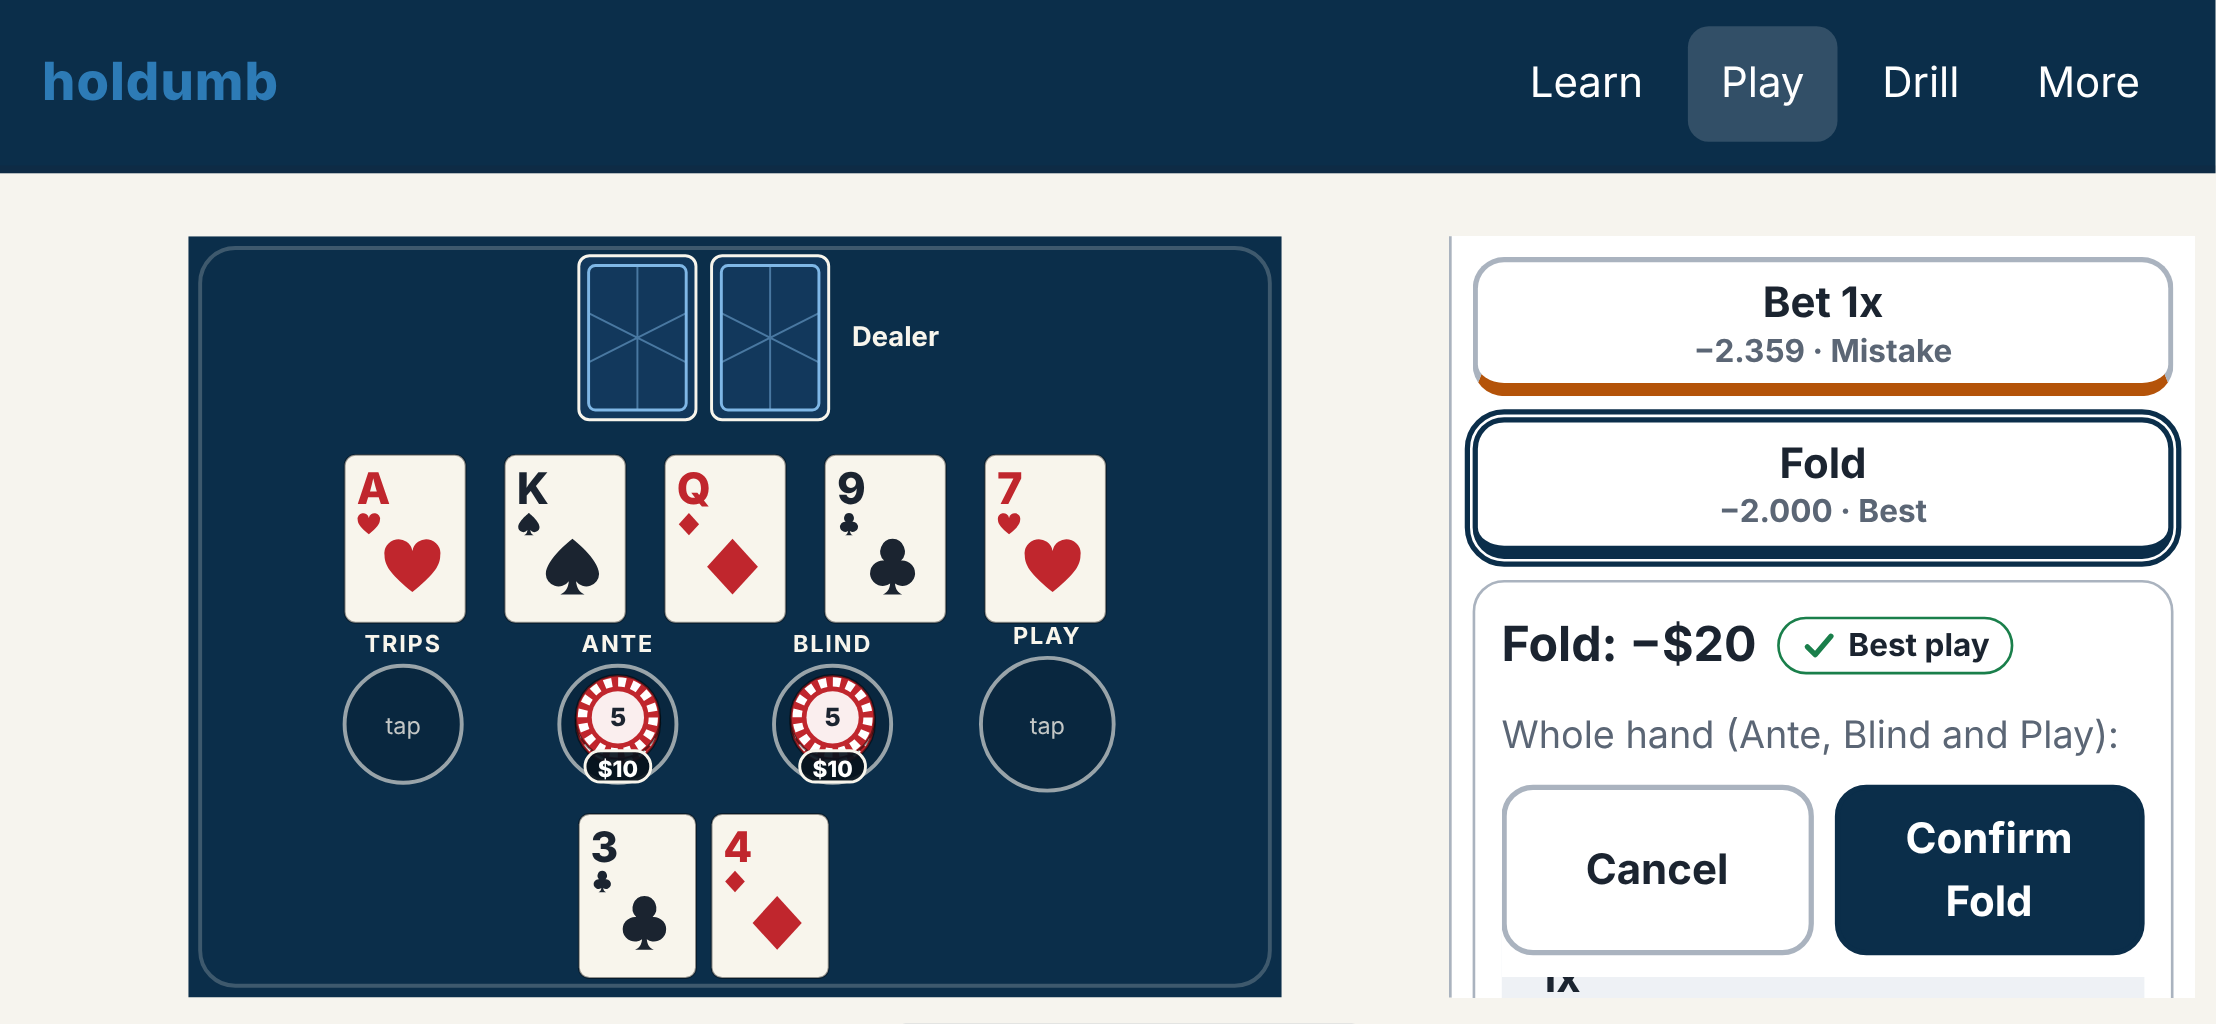
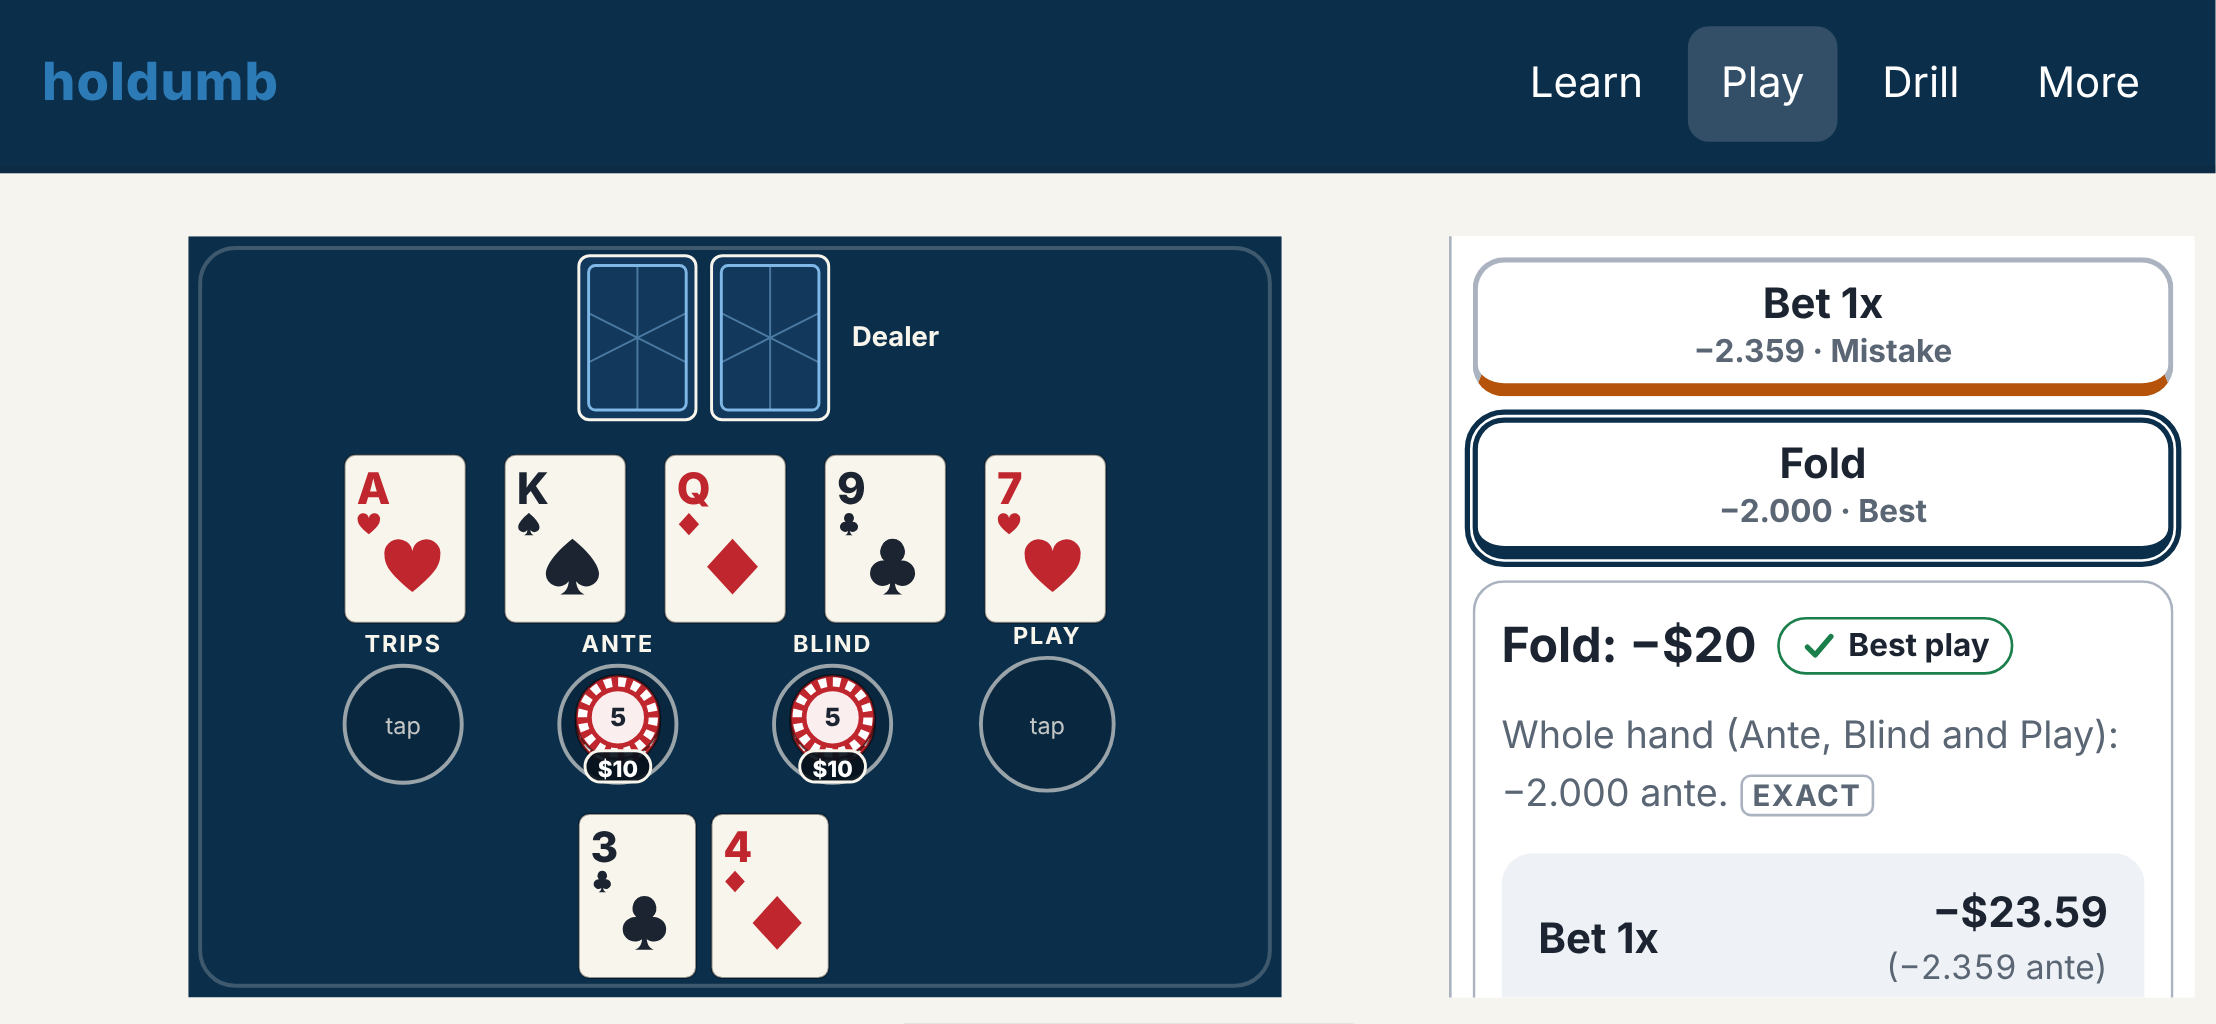
wire betterAlternative and hideEv into the Simulator; refreshed screenshots
Claude-Session: https://claude.ai/code/session_01PWKQj6nyHK13ovx4AWfotY

diff --git a/src/sim/ui/Simulator.tsx b/src/sim/ui/Simulator.tsx
@@ -24,7 +24,8 @@ import { decodeSnapshot, encodeSnapshot } from './persist';
 import { randomSeed, resolvePractice, resolveSpeed } from './settings';
 import { actionOfKey, describeResult, handName, headline, optionKeyOf } from './text';
 import type { SimulatorProps } from './types';
-import type { DecisionPreview } from '../math';
+import { betterAlternative } from '../math';
+import type { BetterAlternative, DecisionPreview, PreviewRequest } from '../math';
 import type { StrategyId } from '../strategy';
 
 const isDecisionStreet = (s: string): boolean => s === 'preflop' || s === 'flop' || s === 'river';
@@ -121,9 +122,11 @@ export function Simulator(props: SimulatorProps) {
   const pv = view.preview;
 
   const [open, setOpen] = useState<OptionKey | null>(null);
-  const [reveal, setReveal] = useState<{ preview: DecisionPreview; chosen: OptionKey } | null>(
-    null,
-  );
+  const [reveal, setReveal] = useState<{
+    preview: DecisionPreview;
+    chosen: OptionKey;
+    req: PreviewRequest | null;
+  } | null>(null);
   const [chip, setChip] = useState<Cents>(scene.ui?.defaultChip ?? 500);
   const handKey = `${hand?.n ?? 0}:${street}`;
   const lastKey = useRef(handKey);
@@ -168,10 +171,23 @@ export function Simulator(props: SimulatorProps) {
     if (!r.ok && !d.view.step) pushToast(r.message, 'bad');
     return r;
   };
+  const requestNow = (): PreviewRequest | null => {
+    const st = d.view.state;
+    const h = st.hand;
+    if (!h || !isDecisionStreet(st.street)) return null;
+    return {
+      street: st.street as PreviewRequest['street'],
+      hole: h.deal.player,
+      board: h.deal.board.slice(0, h.boardShown),
+      blindPaytable: st.rules.blindPaytable,
+      ante: st.bets.ante,
+    };
+  };
   const confirm = async (k: OptionKey) => {
     const before = d.view.preview.value;
+    const reqBefore = requestNow();
     const r = await d.act(actionOfKey(k));
-    if (practice && before) setReveal({ preview: before, chosen: k });
+    if (practice && before) setReveal({ preview: before, chosen: k, req: reqBefore });
     else setOpen(null);
     if (!r.ok && !d.view.step) pushToast(r.message, 'bad');
   };
@@ -221,9 +237,9 @@ export function Simulator(props: SimulatorProps) {
     />
   ) : null;
 
-  const showPreviewOnBar = evShown && !practice && pv.status === 'ready' ? pv.value : null;
+  const showPreviewOnBar = evShown && pv.status === 'ready' ? pv.value : null;
   const barStatus =
-    !decision || !evShown || practice
+    !decision || !evShown
       ? undefined
       : pv.status === 'idle'
         ? undefined
@@ -232,6 +248,17 @@ export function Simulator(props: SimulatorProps) {
           : pv.status;
 
   const sheetKey = reveal?.chosen ?? open;
+  const sheetPreview = reveal ? reveal.preview : pv.value;
+  const sheetReq = reveal ? reveal.req : requestNow();
+  let alternative: BetterAlternative | null = null;
+  if (sheetKey && sheetPreview && sheetReq && sheetPreview.street === sheetReq.street) {
+    const i = sheetPreview.options.findIndex((o) => optionKeyOf(o.action) === sheetKey);
+    try {
+      if (i >= 0) alternative = betterAlternative(sheetReq, sheetPreview, i);
+    } catch {
+      alternative = null;
+    }
+  }
   const sheet =
     sheetKey && (reveal || (open && decision)) ? (
       <EvSheet
@@ -251,6 +278,7 @@ export function Simulator(props: SimulatorProps) {
         }}
         confirmCostlyMoves={settings.confirmCostlyMoves}
         hideEv={practice}
+        alternative={alternative}
         chosen={reveal?.chosen ?? null}
         onContinue={() => {
           setReveal(null);
@@ -326,6 +354,7 @@ export function Simulator(props: SimulatorProps) {
             street={street}
             layout={orientation === 'landscape' ? 'rail' : 'bar'}
             preview={showPreviewOnBar}
+            hideEv={practice}
             evStatus={barStatus}
             selected={open}
             allowed={view.allowedOptions}

diff --git a/src/sim/ui/Simulator.test.tsx b/src/sim/ui/Simulator.test.tsx
@@ -54,6 +54,28 @@ describe('Simulator container', () => {
     expect(document.querySelectorAll('.is-best').length).toBe(1);
     evClient.dispose();
   });
+  it('a worse option shows the better alternative in the sheet', async () => {
+    const { evClient } = mount({
+      id: 'sandbox',
+      version: 1,
+      startAt: {
+        street: 'river',
+        deal: {
+          player: ['3c', '4d'],
+          flop: ['Ah', 'Ks', 'Qd'],
+          turn: '9c',
+          river: '7h',
+          dealer: ['Td', 'Ts'],
+        },
+      },
+    });
+    await waitFor(() =>
+      expect(screen.getByTestId('simulator').getAttribute('data-ev')).toBe('ready'),
+    );
+    fireEvent.click(document.querySelector('[data-option="play-1"]')!);
+    await waitFor(() => expect(screen.getByTestId('alternative')).toBeTruthy());
+    evClient.dispose();
+  });
   it('a scene step refuses the wrong move with its hint and no retry button', async () => {
     const scene: SceneConfig = {
       id: 'x',
